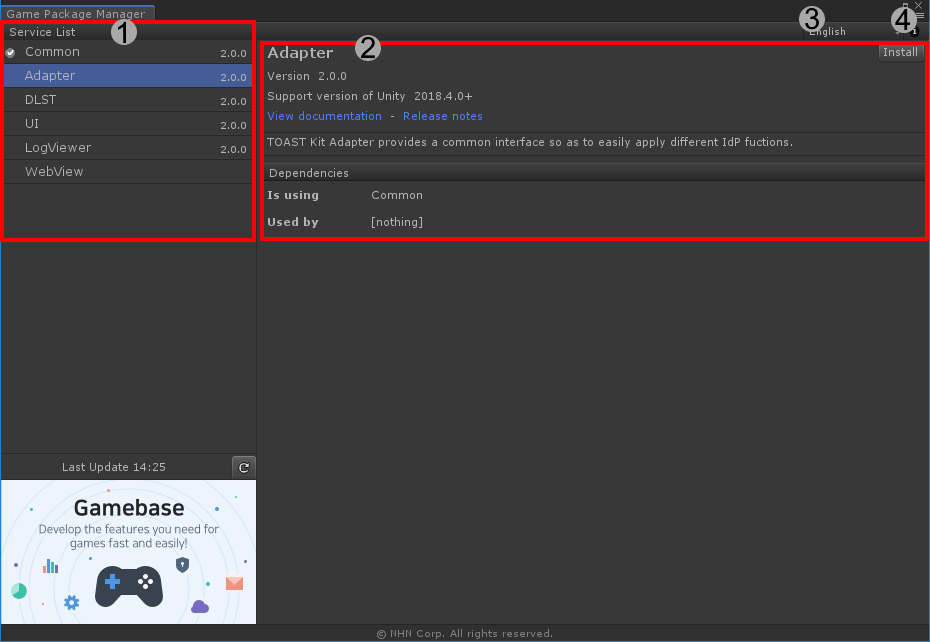
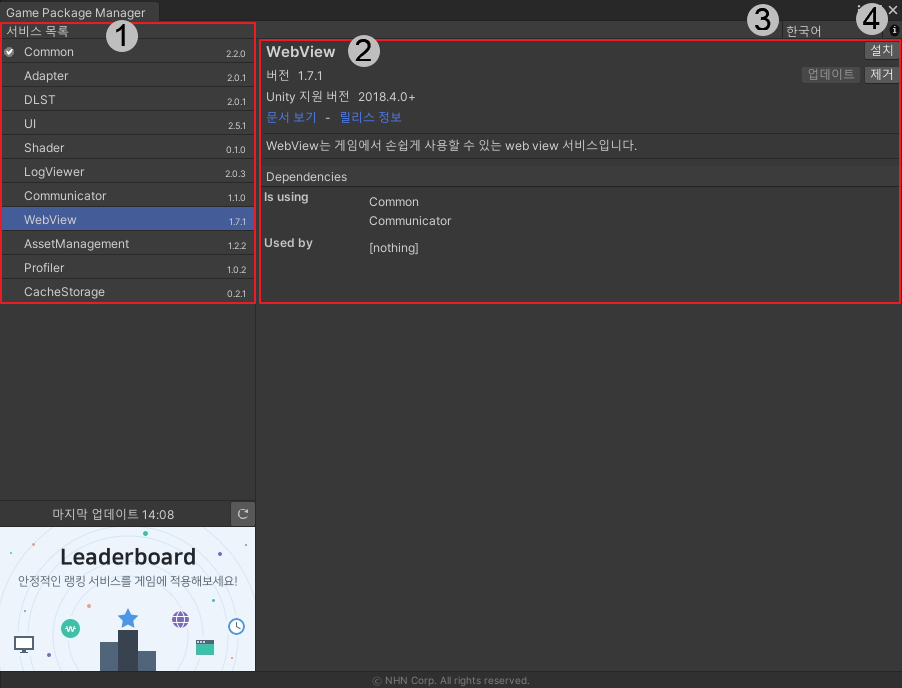
Update Manager guide

Changed region(s): [[0.0, 0.0, 1.0, 1.0]]

diff --git a/docs/Manager/README.en.md b/docs/Manager/README.en.md
@@ -26,7 +26,7 @@ Check the service list from Manager, while you install, remove, or update servic
 
 * Menu > Tools > GPM > Manager
 
-![Manager](./images/gpm_manager_001.png)
+![Manager](./images/gpm_manager_002.png)
 
 ### 1. Service List
 
